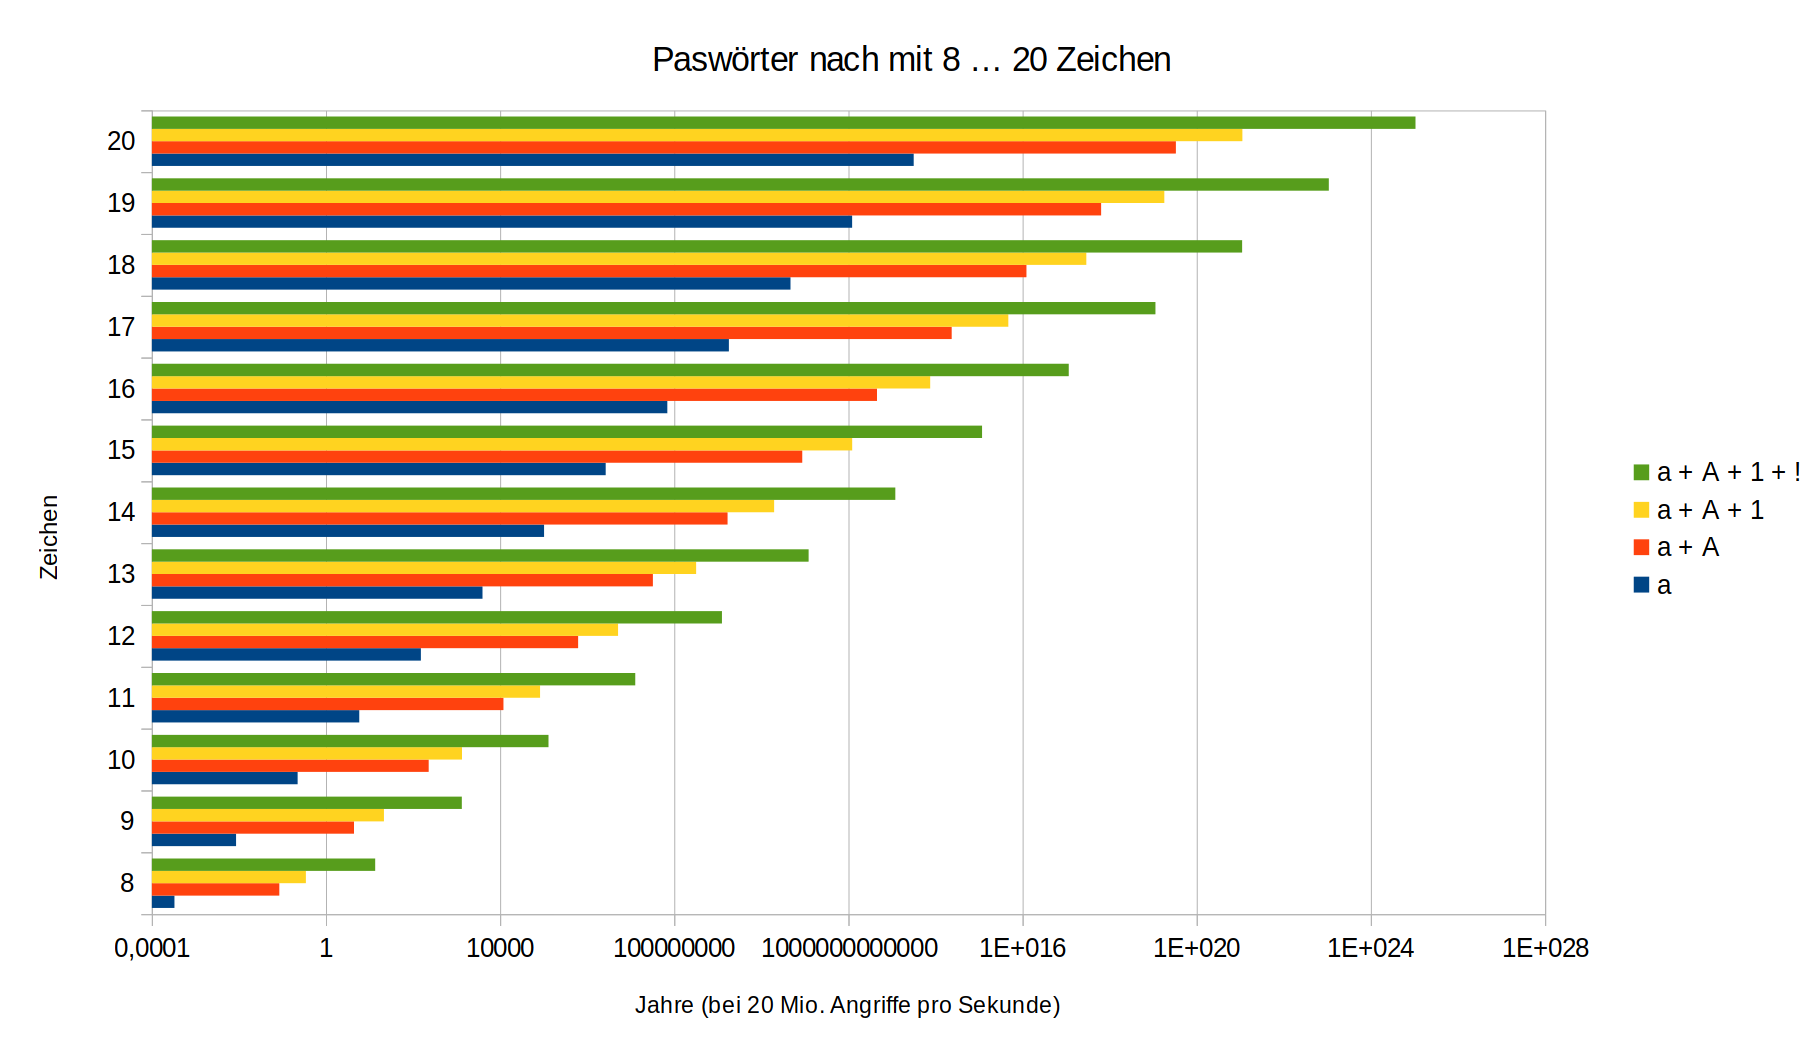
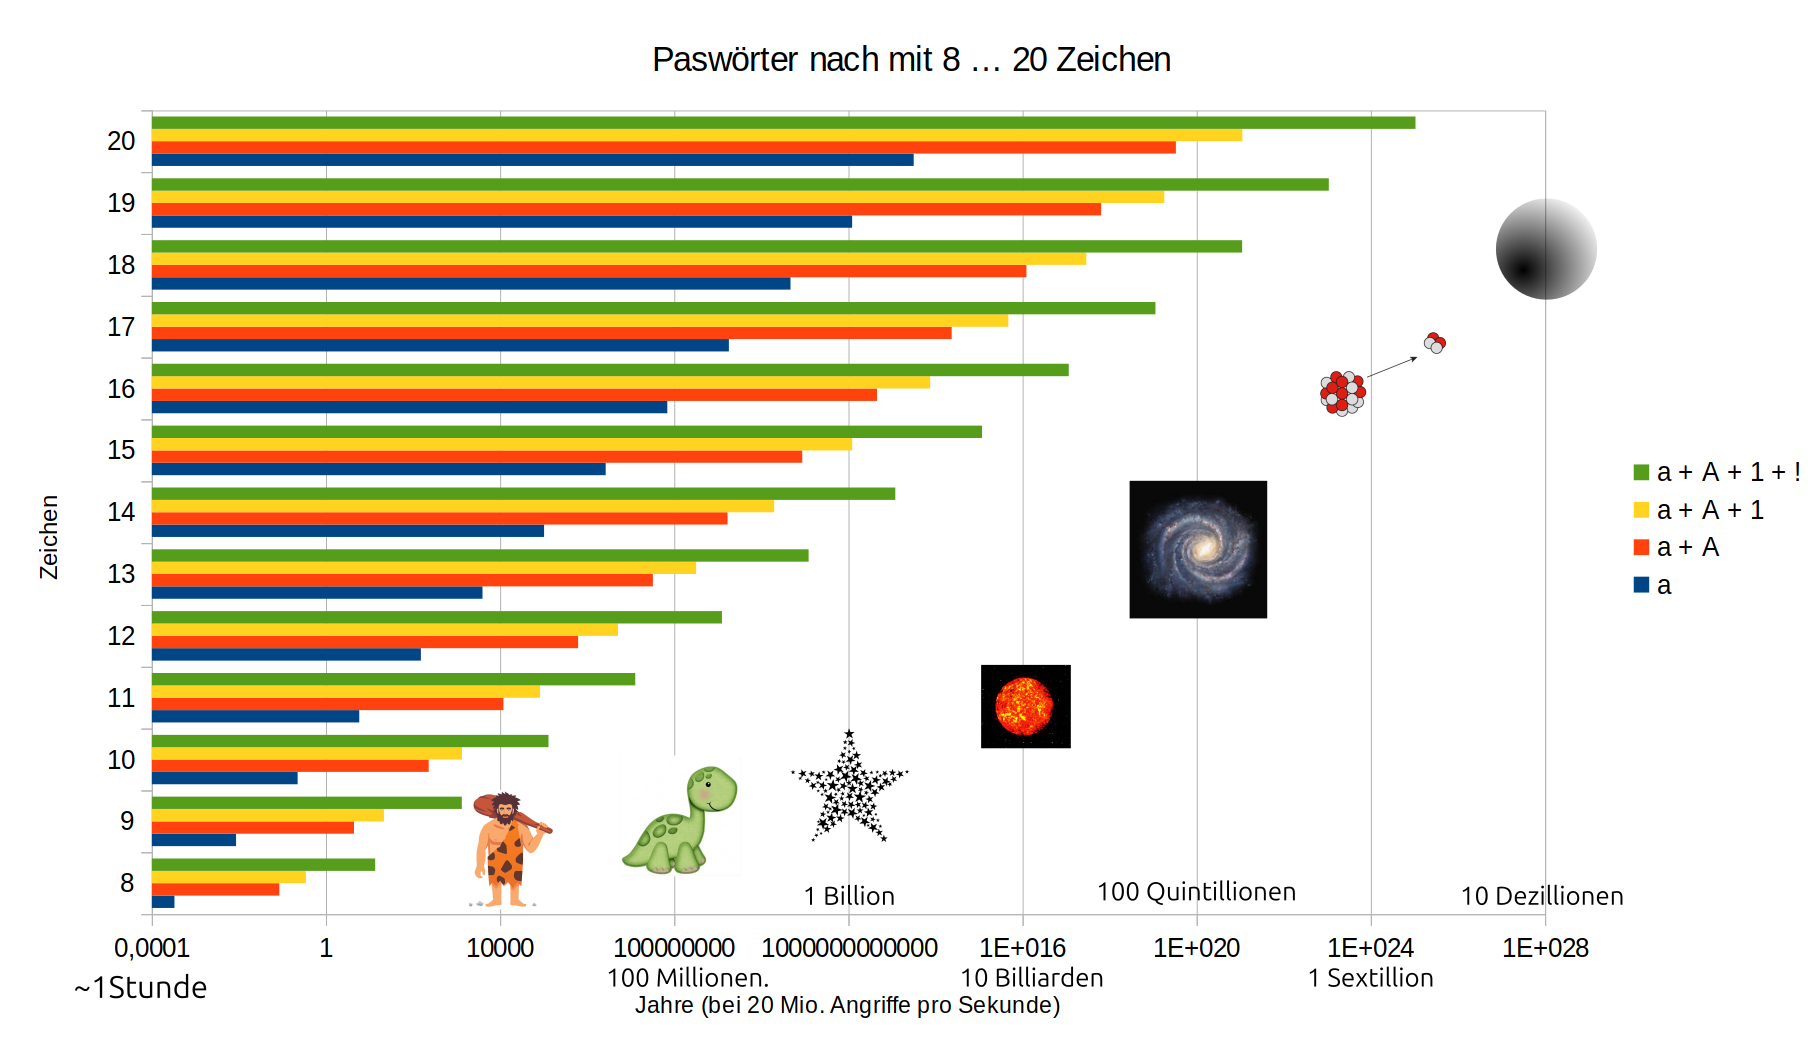
[Passwortmanager] Updete der ganzen Sektion
- Empfehlungen auf 3 reduziert
- Beliebteste Passwörter auf 2024 aktualisiert
- Beliebteste Passwörter von Top 50 Liste auf Top 20 reduziert
- Quelle angegeben
- Angriffskraft Tabellen aktualisiert und überarbeitet
- Besseren Satz für die Satzmethode I - III gewählt
- BruteForce Grafiken mit Bildern zugänglicher gestaltet
- Keepass Browser Plugin Grafik optimiert

diff --git a/index.html b/index.html
@@ -177,8 +177,8 @@
                         <h4 class="fragment fade-in-then-semi-out"><a href="https://bitwarden.com/">— Bitwarden —</a></h4>
                         <h4 class="fragment fade-in-then-semi-out"><a href="https://keepassxc.org/">— KeePassXC —</a></h4>
                         <h4 class="fragment fade-in-then-semi-out"><a href="https://1password.com/de/">— 1Password —</a></h4>
-                        <h4 class="fragment fade-in-then-semi-out"><a href="https://www.keepersecurity.com/de_DE/">— Keeper —</a></h4>
-                        <h4 class="fragment fade-in-then-semi-out"><a href="https://www.lastpass.com/de/">— LastPass —</a></h4>
+                        <!--<h4 class="fragment fade-in-then-semi-out"><a href="https://www.keepersecurity.com/de_DE/">— Keeper —</a></h4>-->
+                        <!--<h4 class="fragment fade-in-then-semi-out"><a href="https://www.lastpass.com/de/">— LastPass —</a></h4>-->
                     </section>
                     <section data-background="#273">
                         <h3>Es gibt zwei Sorten von Passwörtern</h3>
@@ -219,37 +219,25 @@
                             <table>
                                 <tr>
                                     <td class="fragment fade-in-then-semi-out">123456</td>
-                                    <td class="fragment fade-in-then-semi-out">qwerty</td>
                                     <td class="fragment fade-in-then-semi-out">password</td>
+                                    <td class="fragment fade-in-then-semi-out">qwerty</td>
                                     <td class="fragment fade-in-then-semi-out">iloveyou</td>
                                 </tr>
                                 <tr>
                                     <td class="fragment fade-in-then-semi-out">111111</td>
                                     <td class="fragment fade-in-then-semi-out">abc123</td>
-                                    <td class="fragment fade-in-then-semi-out">1q2w3e4r</td>
-                                    <td class="fragment fade-in-then-semi-out">admin</td>
+                                    <td class="fragment fade-in-then-semi-out">1q2w3e4r5t</td>
+                                    <td class="fragment fade-in-then-semi-out">ashley</td>
                                 </tr>
                                 <tr>
-                                    <td class="fragment fade-in-then-semi-out">welcome</td>
-                                    <td class="fragment fade-in-then-semi-out">princess</td>
+                                    <td class="fragment fade-in-then-semi-out">monkey</td>
                                     <td class="fragment fade-in-then-semi-out">dragon</td>
-                                    <td class="fragment fade-in-then-semi-out">michael</td>
-                                </tr>
-                                <tr>
-                                    <td class="fragment fade-in-then-semi-out">sunshine</td>
-                                    <td class="fragment fade-in-then-semi-out">freedom</td>
-                                    <td class="fragment fade-in-then-semi-out">letmein</td>
-                                    <td class="fragment fade-in-then-semi-out">secret</td>
-                                </tr>
-                                <tr>
-                                    <td class="fragment fade-in-then-semi-out">passw0rd</td>
-                                    <td class="fragment fade-in-then-semi-out">nothing</td>
-                                    <td class="fragment fade-in-then-semi-out">biteme</td>
-                                    <td class="fragment fade-in-then-semi-out">ginger</td>
+                                    <td class="fragment fade-in-then-semi-out">princess</td>
+                                    <td class="fragment fade-in-then-semi-out">654321</td>
                                 </tr>
                             </table>
                             <p class="fragment fade-in" data-fragment-index="1">
-                                <tiny>— Auswahl aus den Top 50 Passwörter von 2019 —</tiny>
+                                <tiny>— Auswahl aus den Top 20 privaten Passwörter in Deutschland von 2024 (<a href="https://identeco.de/de/blog/whitepaper_passwords_germany_2024/">Quelle</a>) —</tiny>
                             </p>
                     </section>
                     <section data-auto-animate data-background="#273">
@@ -282,11 +270,11 @@
                         <h3>Angriffskraft</h3>
                         <table class="fragment fade-in">
                             <tr>
-                                <td>Typ</td>
-                                <td>Einführung</td>
-                                <td>Kerne</td>
-                                <td>Takt/GHz</td>
-                                <td>Mio.Keys/s</td>
+                                <td><small>Typ</small></td>
+                                <td><small>Einführung</small></td>
+                                <td><small>Kerne</small></td>
+                                <td><small>Takt (GHz)</small></td>
+                                <td><small>Keys (Mio./s)</small></td>
                             </tr>
                             <tr class="fragment fade-in-then-semi-out">
                                 <td><a href="https://ark.intel.com/content/www/de/de/ark/products/75131/intel-core-i7-4900mq-processor-8m-cache-up-to-3-80-ghz.html">Core2Duo</a></td>
@@ -296,11 +284,11 @@
                                 <td>20</td>
                             </tr>
                             <tr class="fragment fade-in-then-semi-out">
-                                <td><a href="https://ark.intel.com/content/www/de/de/ark/products/30784/intel-core-2-duo-processor-e6750-4m-cache-2-66-ghz-1333-mhz-fsb.html">i7</a></td>
-                                <td>2013</td>
-                                <td>4</td>
-                                <td>3,80</td>
-                                <td>2.000</td>
+                                <td><a href="https://www.intel.de/content/www/de/de/products/sku/148263/intel-core-i78086k-processor-12m-cache-up-to-5-00-ghz/specifications.html">i7</a></td>
+                                <td>2018</td>
+                                <td>6</td>
+                                <td>4,0</td>
+                                <td>2.147</td>
                             </tr>
                         </table>
                         <p>
@@ -331,17 +319,17 @@
                     </section>
                     <section data-background="#273">
                         <h2>Satz-Methode I</h2>
-                        <p><b>E</b>in <b>g</b>utes <b>B</b>ier <b>m</b>uss <b>n</b>icht <b>i</b>mmer <b>a</b>us <b>e</b>inem <b>u</b>nserer <b>16</b> <b>B</b>undesländer <b>k</b>ommen<b>!</b> </p>
-                        <p class="fragment"><em>→ "EgBmnia1u16Bk!"</em></p>
+                        <p><b>I</b>ch <b>h</b>abe <b>k</b>einen <b>B</b>ock <b>,</b> <b>m</b>it <b>d</b>en <b>16</b> <b>E</b>rdmännchen <b>G</b>assi <b>z</b>u <b>g</b>ehen<b>!</b> </p>
+                        <p class="fragment"><em>→ "IhkB,md16EGzg!"</em></p>
                     </section>
                     <section data-background="#273">
                         <h2>Satz-Methode II & III</h2>
 
-                        <p><b>E</b>in <b>g</b>utes <b>B</b>ier <b>m</b>uss <b>n</b>icht <b>i</b>mmer <b>a</b>us <b>e</b>inem <b>u</b>nserer <b>16</b> <b>B</b>undesländer <b>k</b>ommen<b>!</b> </p>
+                        <p><b>I</b>ch <b>h</b>abe <b>k</b>einen <b>B</b>ock <b>,</b> <b>m</b>it <b>d</b>en <b>16</b> <b>E</b>rdmännchen <b>G</b>assi <b>z</b>u <b>g</b>ehen<b>!</b> </p>
 
-                        <p class="fragment fade-in-then-semi-out"><em>→ EingutesBiermussnichtimmeraus einemunserer16Bundesländerkommen!</em></p>
+                        <p class="fragment fade-in-then-semi-out"><em>→ IchhabekeinenBock,mitden16<br>ErdmännchenGassizugehen!</em></p>
 
-                        <p class="fragment"><em>→ E<b>1</b>ngutesBi<b>3</b>rmussnichtimm<b>€</b>raus einemunserer<b>[</b>16<b>]</b>Bundesl<b>a:</b>nderkommen!</em></p>
+                        <p class="fragment"><em>→ Ichhab<b>3</b>keinenB<b>0</b>ck,mitden<b>[</b>16<b>]</b><br>Erdm<b>a:</b>nnchenGa<b>$$</b>izugehen!</em></p>
                     </section>
                     <section data-background="#273">
                         <h2>Passwortmanager</h2>
